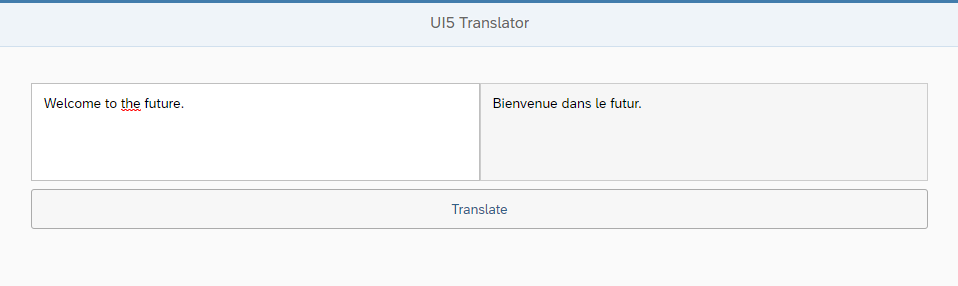
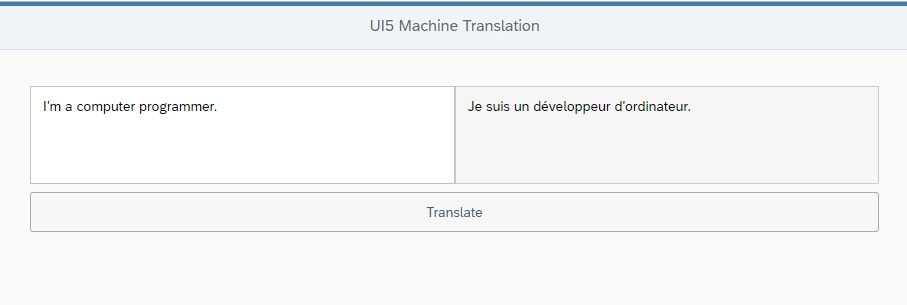
Updated app title.

diff --git a/webapp/index.html b/webapp/index.html
@@ -5,7 +5,7 @@
 		<meta http-equiv="X-UA-Compatible" content="IE=edge" />
 		<meta charset="UTF-8">
 
-		<title>ui5-ml-translation</title>
+		<title>UI5 Machine Translation</title>
 
 		<script id="sap-ui-bootstrap"
 			src="../../resources/sap-ui-core.js"
